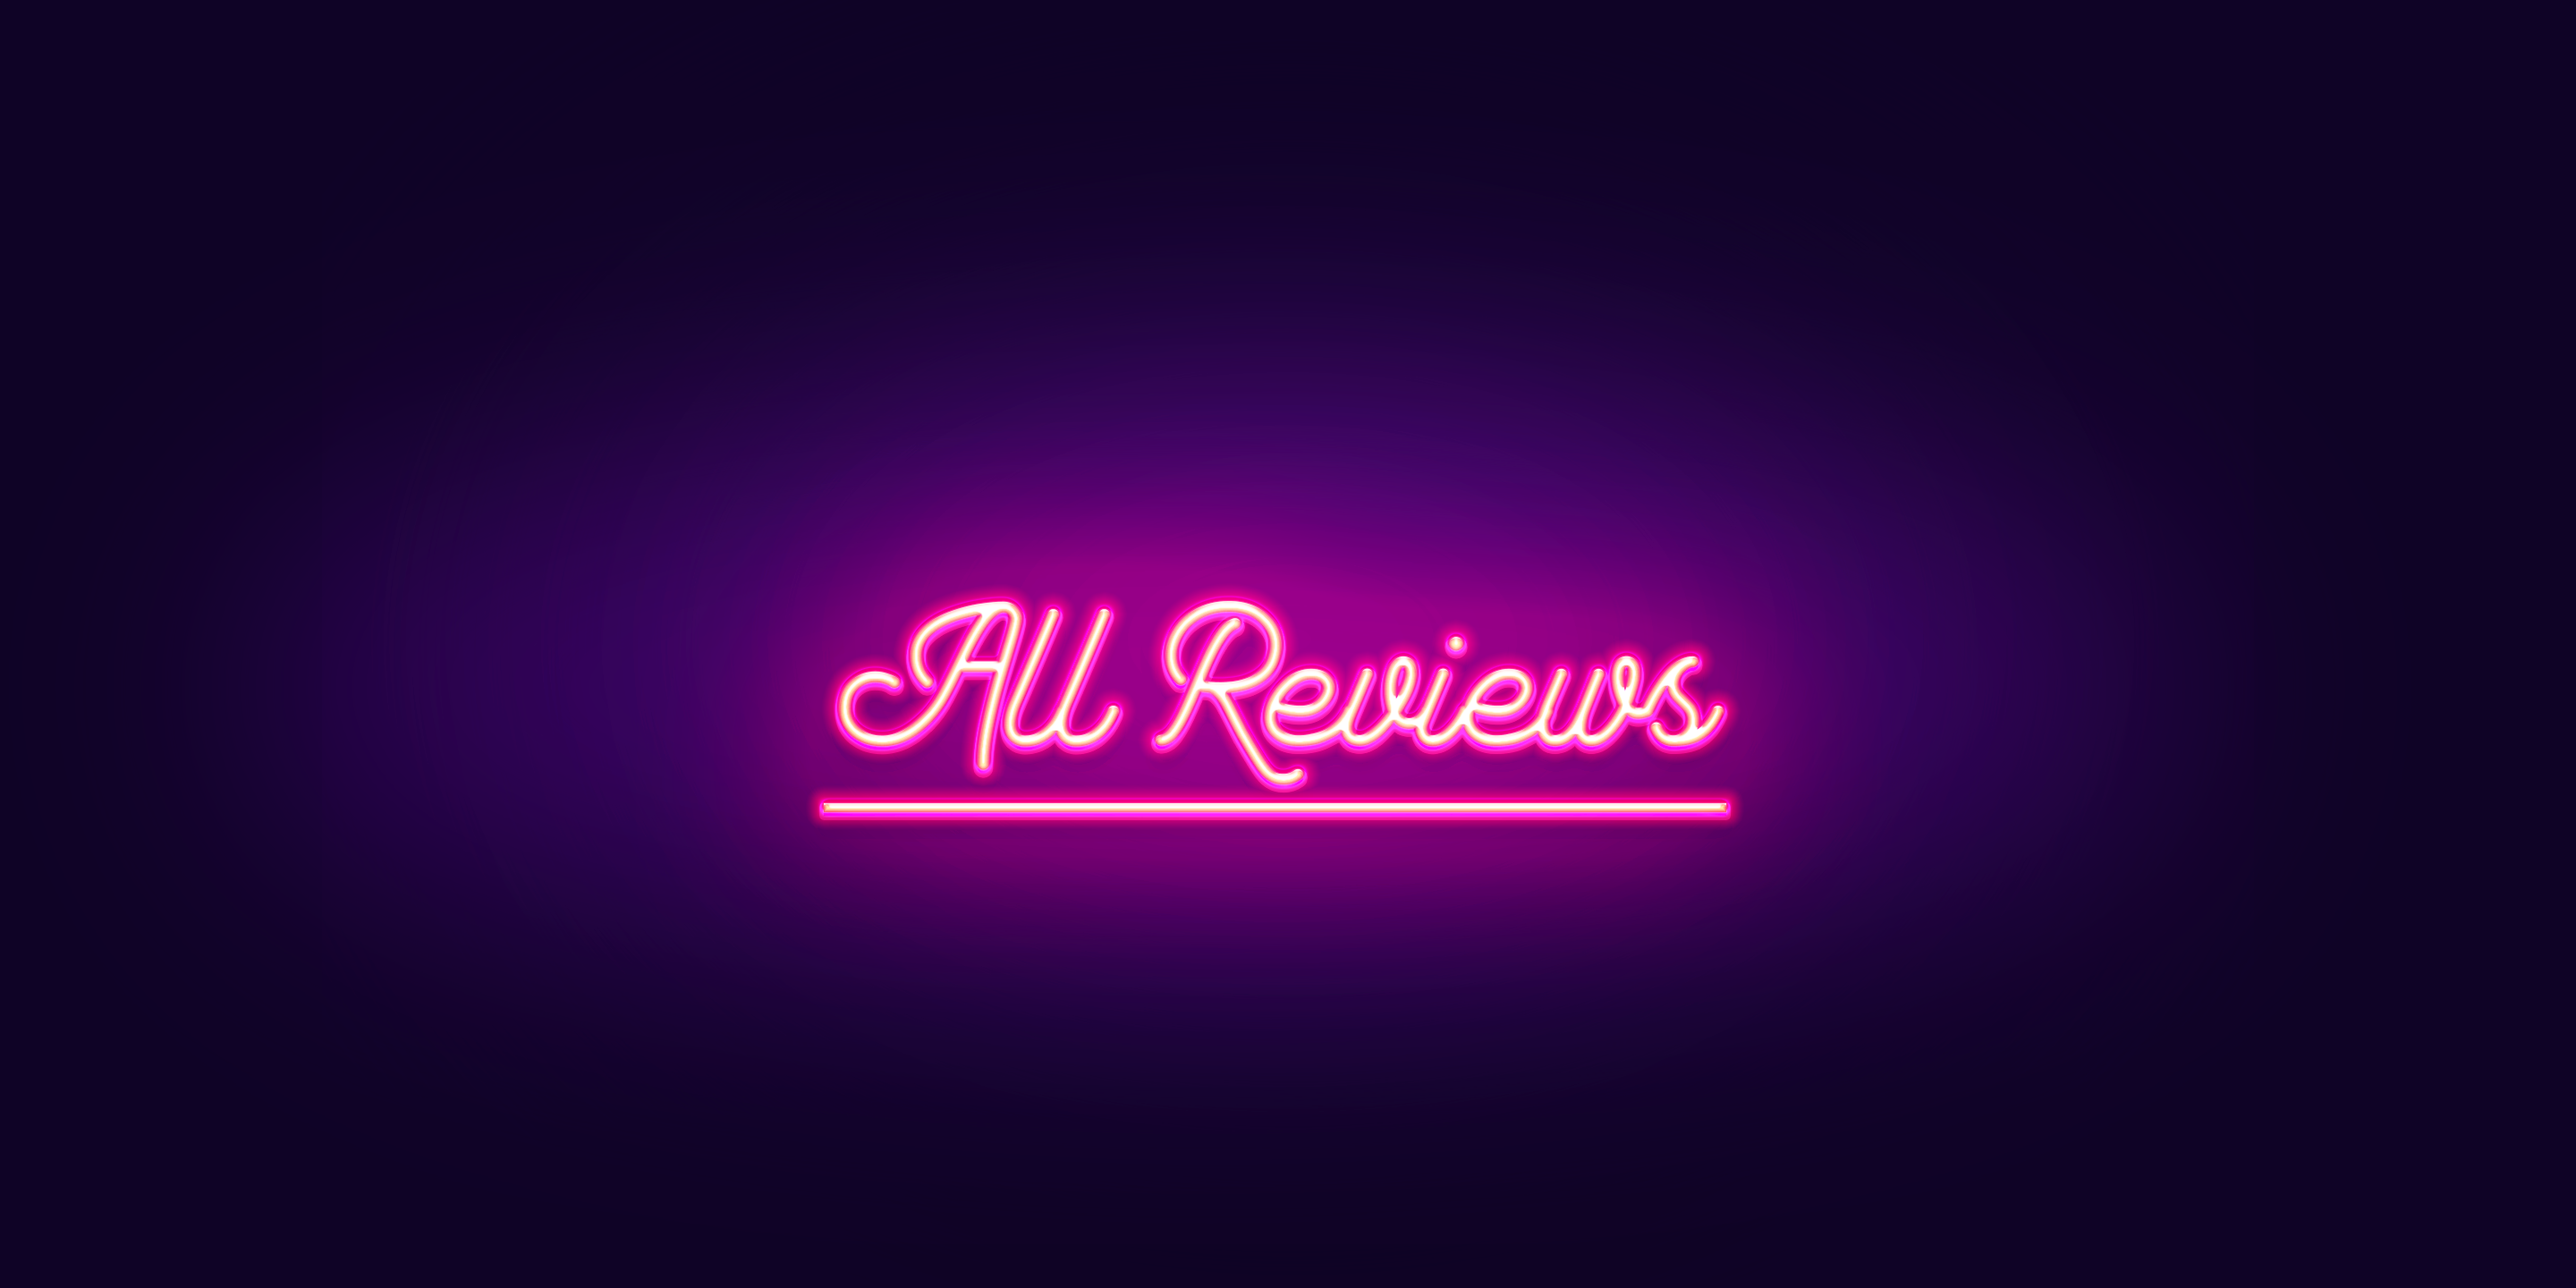
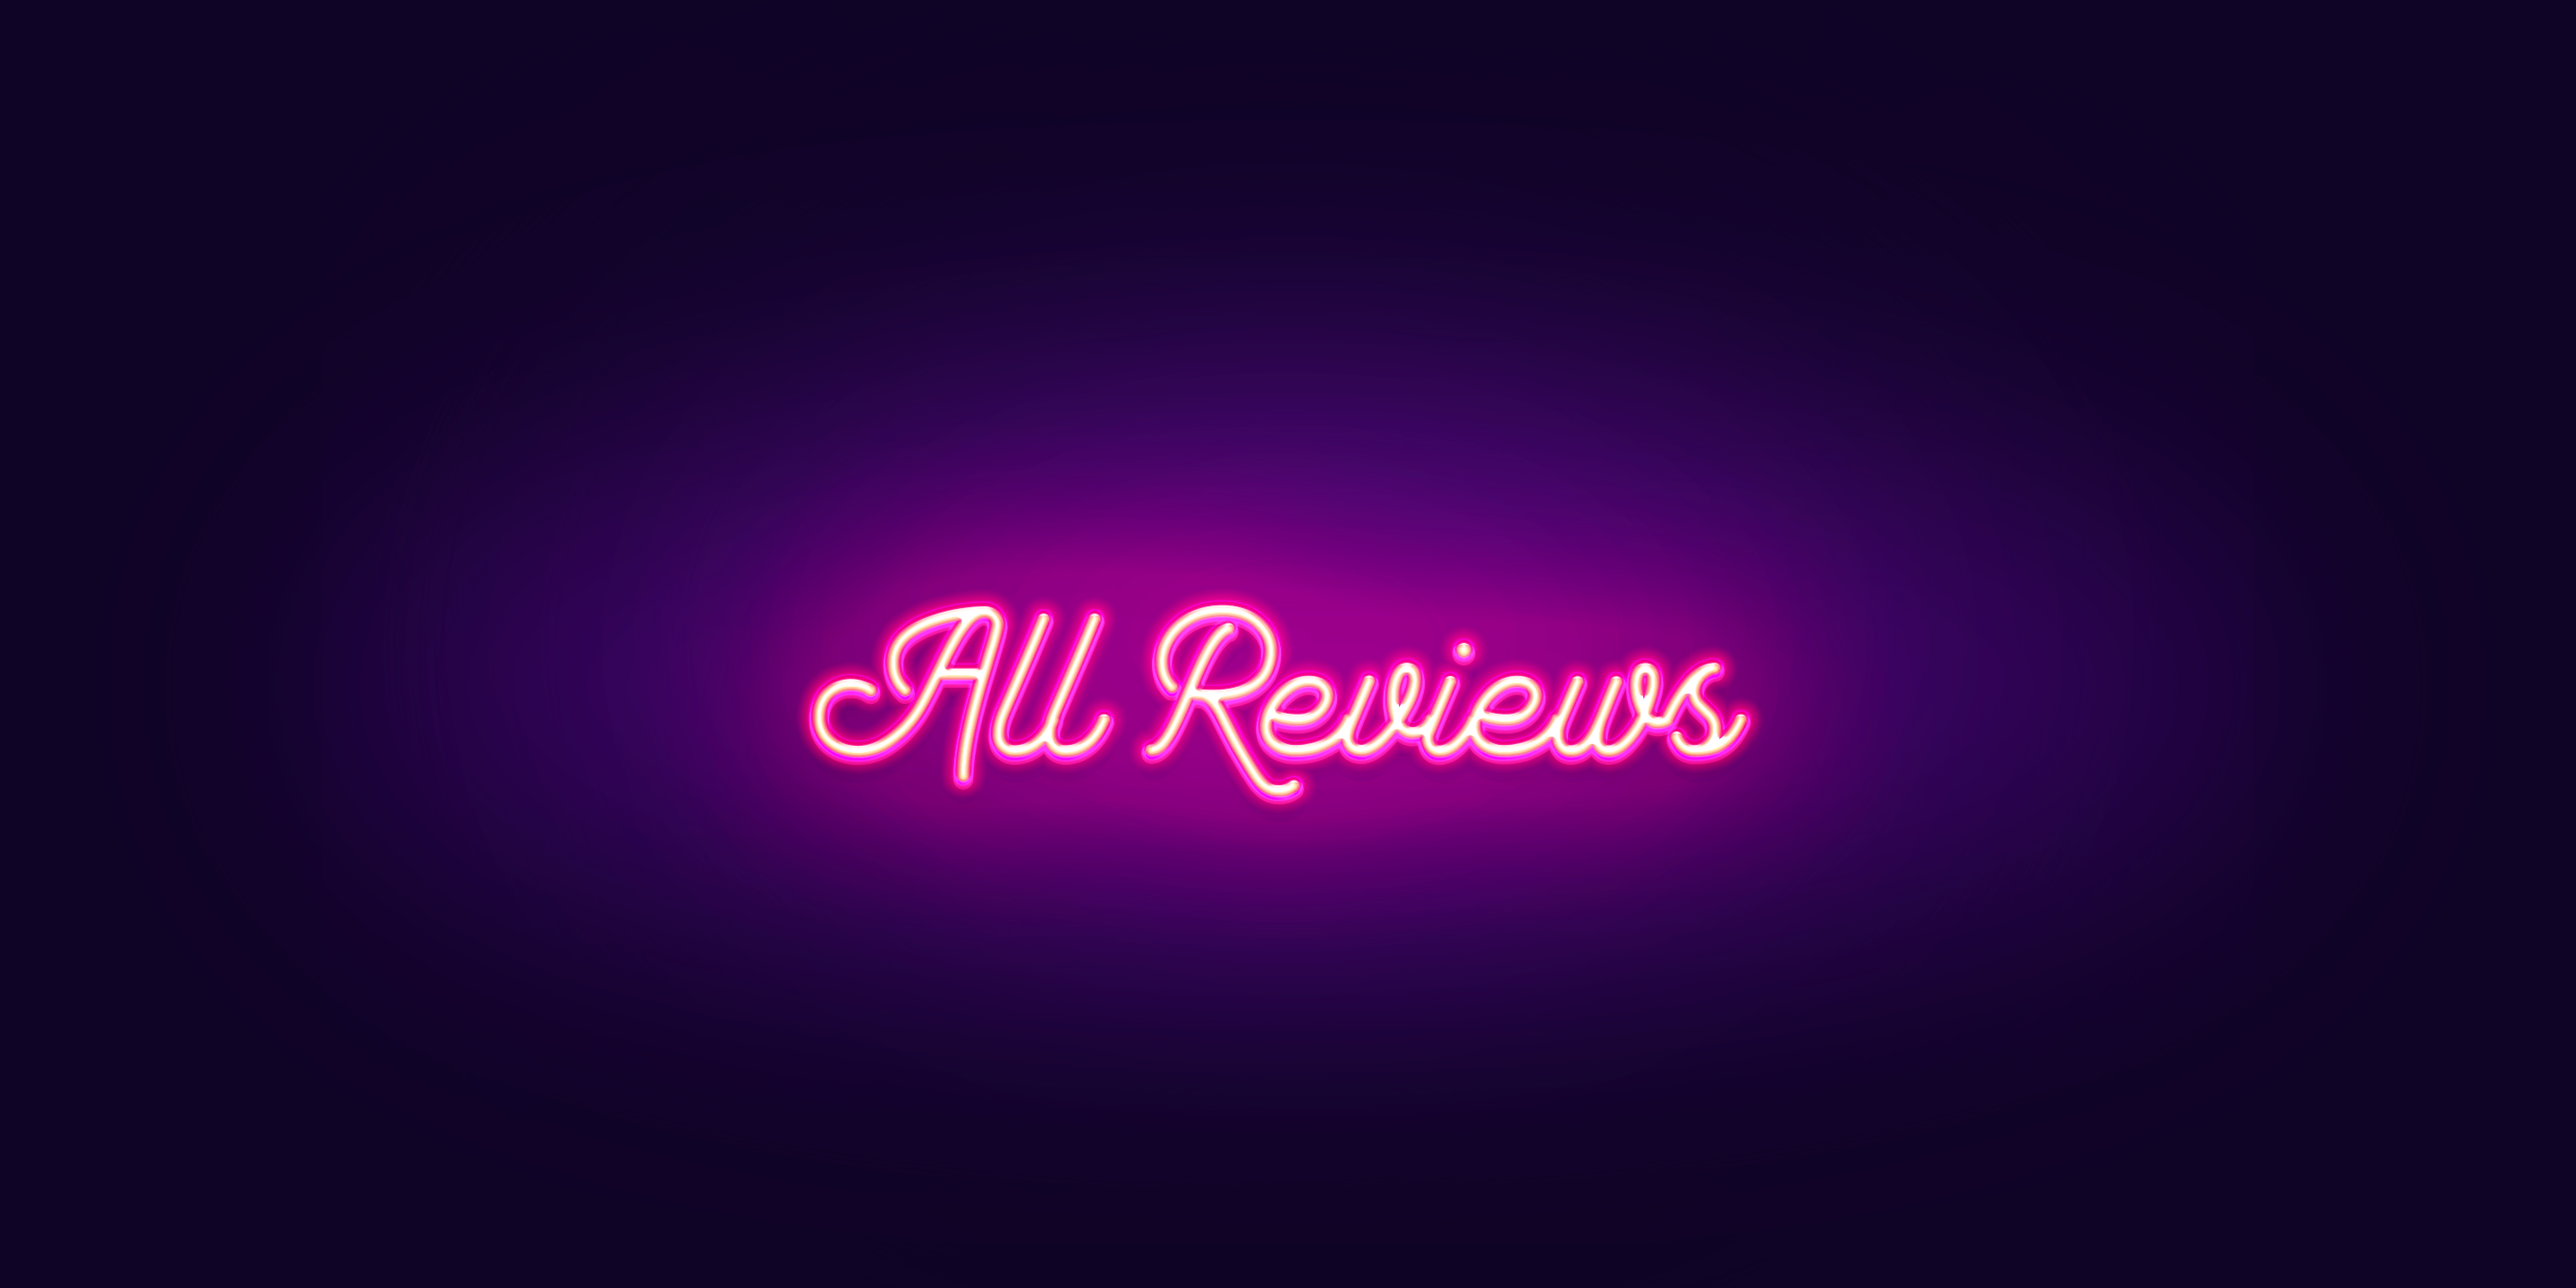
major changes to ui

Changed region(s): [[0.3125, 0.4375, 0.6875, 0.6875]]

diff --git a/client/src/pages/movieClicked.js b/client/src/pages/movieClicked.js
@@ -7,7 +7,13 @@ import { Link } from 'react-router-dom'
 import { resetWarningCache } from 'prop-types';
 import Form from 'react-bootstrap/Form'
 import submitbutton from './images/submit.png'
+import AllReviews from './images/allreviews.png'
+import LeaveReview from './images/ureviewheaders.png'
+import moviereel from './images/moviereel.png'
 
+console.log(moviereel);
+console.log(AllReviews);
+console.log(LeaveReview);
 
 class MovieClicked extends React.Component{
   constructor(props) {
@@ -34,7 +40,7 @@ class MovieClicked extends React.Component{
         'id': this.state.movieId,
         'title': this.state.title
       },
-      
+
       })
       .then((response) => {
         // console.log(response)
@@ -73,7 +79,7 @@ class MovieClicked extends React.Component{
         return(
           <div class="card border-right-0 border-top-0 border-bottom-0 border-left-0" style={{maxWidth: '18%'}}>
               <div class="card-body">
-              <h5>{t.owner.username} says</h5>
+              <h5><b>{t.owner.username}</b> says</h5>
               {t.text}
               </div>
           </div>
@@ -123,6 +129,12 @@ onSubmit = (e) => {
     })
   }catch(e) {
     console.log("Yeah there was an error fam.")
+  }
+}
+
+renderRedirect = () => {
+  if (this.state.redirect) {
+    window.location.reload()
   }
 }
 
@@ -198,6 +210,8 @@ handleReviewChange = (e) => {
   console.log(this.state.review)
 }
 
+
+
   render(){
     // Sets query in state to be whatever the user is typing
 
@@ -222,31 +236,38 @@ handleReviewChange = (e) => {
             </div>
           </div>
         </div>
+        <div class = "btn-toolbar">
+        <br></br>
+        <div><Button variant="warning" onClick={this.addToWishList}>Add to Wish List</Button></div>
+        <div><Button variant="danger" onClick={this.addToWatchedList}>Add to Watched List</Button></div>
+        </div>
       </div>
+      <img src={AllReviews} width = "400"/>
     </div>
 
     <div style={styling.reviewDiv}>
-    <h1> <b><u> Reviews: </u> </b></h1>
-      <div>{this.renderReviews()}</div>
-    </div>
-    <div>
-      <Form>
-        <Form.Group>
-        <Form.Label>Leave your review.</Form.Label>
-        <Form.Control as="textarea" rows="3" value={this.state.text} onChange={this.handleReviewChange} placeholder='You be the critic.'/>
-        </Form.Group>
-      </Form>
-      {/* <input type="input" name="review" value={this.state.review} onChange={this.handleReviewChange} /><br></br> */}
-      <Button variant="link" onClick={this.onSubmit}>
-      <img src={submitbutton} width = "200"/>
-      </Button>
-    </div>
-    <div>
-    <Button variant="warning" onClick={this.addToWishList}>Add to WishList</Button>
-    <Button variant="danger" onClick={this.addToWatchedList}>Add to WatchedList</Button>
+      <div>{(this.state.resultPosts.length == 0) ? (<p>No reviews yet.</p>) : this.renderReviews()}</div>
     </div>
 
-  </div>
+
+    <div class="form-group row" style={styling.mainDiv}>
+      <div class="col-xs-5">
+          <Form>
+            <Form.Group>
+            <img src={LeaveReview} width = "450"/>
+            <Form.Control as="textarea" rows="3" value={this.state.text} onChange={this.handleReviewChange} placeholder='You be the critic.'/>
+            </Form.Group>
+          </Form>
+          {/* <input type="input" name="review" value={this.state.review} onChange={this.handleReviewChange} /><br></br> */}
+          <Button variant="link" onClick={this.onSubmit}>
+          <img src={submitbutton} width = "200"/>
+          </Button>
+          </div>
+          {this.renderRedirect()}
+      </div>
+      <img src={moviereel} width="400"/> <img src={moviereel} width="400"/>  <img src={moviereel} width="400"/>
+    <br></br>
+    </div>
 
 
     );
@@ -267,8 +288,7 @@ const styling = {
   reviewDiv: {
     width: '100%',
     height: '100%',
-    marginLeft: '5%',
-    justifyContent: 'left',
+    justifyContent: 'center',
     background: '#0f0524',
     color: 'white'
   },

diff --git a/client/src/pages/profile.js b/client/src/pages/profile.js
@@ -5,9 +5,15 @@ import { Button } from 'react-bootstrap/'
 import { Redirect } from 'react-router-dom'
 import NavBar from '../components/navbar'
 import { Link } from 'react-router-dom'
+import wishl from './images/wishlist.png';
+import watchedl from './images/watchedlist.png';
+import urev from './images/yourreviews.png';
 
 
 console.log(logo);
+console.log(wishl);
+console.log(watchedl);
+console.log(urev);
 
 class Profile extends Component{
   constructor(props) {
@@ -122,7 +128,6 @@ class Profile extends Component{
         return(
           <div class="card border-right-0 border-top-0 border-bottom-0 border-left-0">
               <div class="card-body">
-
                 <Link to={{
                    pathname: '/movie/clicked',
                    state: {
@@ -148,30 +153,30 @@ class Profile extends Component{
   render(){
   return (
     <div style={styling.mainDiv} >
-    <NavBar location={{state: {jwt: this.state.jwt}}}/>
+      <NavBar location={{state: {jwt: this.state.jwt}}}/>
 
-    <div style={styling.headerDiv} >
-    <img src='https://i.imgur.com/5AFVMLg.png' width = "400"/>
+      <div style={styling.headerDiv} >
+      <img src='https://i.imgur.com/5AFVMLg.png' width = "400"/>
 
-    <u><h1>{`${this.state.username}`}'s profile</h1></u>
-    <br></br>
-    </div>
+      <u><h1>{`${this.state.username}`}'s profile</h1></u>
+      <br></br>
+      </div>
 
 
-      <div class="container">
-        <div class="row">
-          <div class="col-sm-3">
-          <h2>Wish List:</h2><br></br>
+      <div class="container" style={styling.mainDiv}>
+        <div class="row" style={styling.mainDiv} >
+          <div class="col-sm-3" style={styling.mainDiv}>
+          <img src={wishl} width = "300"/><br></br>
             <div>{(this.state.wishList.length == 0) ? (<p>No movies added to WishList yet.</p>) : this.renderCardsForWishList()}<br></br></div>
             <br></br>
           </div>
-          <div class="col-sm-4">
-          <h2>Watched List:</h2><br></br>
+          <div class="col-sm-3" style={styling.mainDiv}>
+          <img src={watchedl} width = "300"/><br></br>
             <div>{(this.state.watchedList.length == 0) ? (<p>No movies added to WatchedList yet.</p>) : this.renderCardsForWatchedList()}</div>
             <br></br>
           </div>
-          <div class="col-sm-5">
-            <h2>Your Reviews:</h2><br></br>
+          <div class="col-sm-4" style={styling.mainDiv}>
+            <img src={urev} width = "300"/><br></br>
             <div>{(this.state.reviews.length == 0) ? (<p>No reviews yet.</p>) : this.renderCardsForReviews()}</div>
           </div>
           </div>
@@ -185,12 +190,8 @@ class Profile extends Component{
 const styling = {
   mainDiv: {
     background: '#0f0524',
-    textAlign: 'left',
+    textAlign: 'center',
     color: 'white'
-  },
-  signup: {
-    color: 'white',
-    marginRight: '30%'
   },
   headerDiv: {
     textAlign: 'center',

diff --git a/client/src/components/navbar.js b/client/src/components/navbar.js
@@ -1,5 +1,5 @@
 import React, { Component } from 'react';
-import Nav from 'react-bootstrap/Nav'
+import { Navbar, Nav, NavItem, NavDropdown, MenuItem } from 'react-bootstrap';
 import { Link }from 'react-router-dom'
 import { Redirect } from 'react-router-dom'
 
@@ -15,27 +15,51 @@ class NavBar extends Component{
   }
   render() {
     return(
-      <Nav>
-        <Link to={{
-            pathname: '/dashboard',
-            state: {
-              jwt: this.state.jwt
-            }
-          }}>Dashboard</Link><br></br>
-        <Link to={{
-            pathname: '/users/profile',
-            state: {
-              jwt: this.state.jwt
-            }
-          }}>Profile</Link><br></br>
-        <Link to={{
-            pathname: '/'
-          }}>Logout</Link>
-        
-      </Nav>
+
+
+      <nav class="navbar navbar-expand-lg navbar-light bg-light">
+        <a class="navbar-brand" href="/">UReview</a>
+        <button class="navbar-toggler" type="button" data-toggle="collapse" data-target="#navbarNav" aria-controls="navbarNav" aria-expanded="false" aria-label="Toggle navigation">
+        <span class="navbar-toggler-icon"></span>
+        </button>
+        <div class="collapse navbar-collapse" id="navbarNav">
+        <ul class="navbar-nav">
+        <li class="nav-item active">
+          <Link to={{
+              pathname: '/dashboard',
+              state: {
+                jwt: this.state.jwt
+              }
+            }}>Dashboard </Link> <br></br>
+        </li> ///
+        <li class="nav-item">
+          <Link to={{
+              pathname: '/users/profile',
+              state: {
+                jwt: this.state.jwt
+              }
+            }}> Profile </Link>
+        </li> ///
+        <li class="nav-item">
+          <Link to={{
+              pathname: '/'
+            }}> Logout</Link>
+
+        </li>
+        </ul>
+        </div>
+      </nav>
+
     )
   }
 }
 
-export default NavBar;
 
+const styling = {
+  mainDiv: {
+    textAlign: 'center',
+    color:'black'
+  }
+}
+
+export default NavBar;

diff --git a/client/src/pages/Search.js b/client/src/pages/Search.js
@@ -5,7 +5,9 @@ import { Redirect } from 'react-router-dom'
 import NavBar from '../components/navbar'
 import { Link } from 'react-router-dom'
 import submitbutton from './images/submit.png'
+import moviereel from './images/moviereel.png'
 
+console.log(moviereel);
 console.log(submitbutton);
 
 class Search extends Component{
@@ -179,21 +181,22 @@ class Search extends Component{
       <div style={styling.mainDiv} >
       <NavBar location={{state: {jwt: this.state.jwt}}}/>
 
-        <img src='https://i.imgur.com/5AFVMLg.png' width = "400"/>
-        <br></br> <h4>SEARCH:</h4>
+        <img src='https://i.imgur.com/5AFVMLg.png' width = "400"/><br></br>
+        <h4>SEARCH:</h4>
         <div className="search">
         {this.renderRedirect()}
               <input type="input" name="query" value={this.state.query} onChange={this.handleQueryChange} /><br></br>
               <Button variant="link" onClick={this.onSubmit}>
               <img src={submitbutton} width = "200"/>
               </Button>
-        </div> <br></br>
-
+        </div>
       <div class="row no gutters">
         <div style={styling.deckDiv}>
                 {this.renderCards()}
             </div>
         </div>
+            <img src={moviereel} width="400"/> <img src={moviereel} width="400"/>  <img src={moviereel} width="400"/>  
+          <br></br>
       </div>
       );
     }

diff --git a/client/src/pages/landing.js b/client/src/pages/landing.js
@@ -43,8 +43,8 @@ class Landing extends Component {
       <div> <img src={logo} width = "700"/> </div>
       <div style = {styling.headerDiv}> <img src={banner} width = "1000"/> </div>
       <div style={styling.buttonDiv}>
-        <Link to="/users/signup"><input type="image" src={signuplogo} width = "600"/></Link>
-        <Link to="/users/login"><input type="image" src={loginlogo} width = "600"/></Link>
+        <Link to="/users/signup"><input type="image" src={signuplogo} width = "400"/></Link>
+        <Link to="/users/login"><input type="image" src={loginlogo} width = "400"/></Link>
       </div>
     </div>
     )
@@ -58,7 +58,8 @@ const styling = {
     textAlign: 'center'
   },
   signup: {
-    marginRight: '30%'
+    marginRight: '30%',
+    background: '#0f0524'
   },
   headerDiv: {
     background: '#f8f9fa'

diff --git a/client/src/pages/SearchResults.js b/client/src/pages/SearchResults.js
@@ -4,6 +4,9 @@ import { Button } from 'react-bootstrap/'
 import { Redirect } from 'react-router-dom'
 import NavBar from '../components/navbar'
 import { Link } from 'react-router-dom'
+import moviereel from './images/moviereel.png'
+
+console.log(moviereel);
 
 class SearchResults extends React.Component{
   constructor(props) {
@@ -65,6 +68,7 @@ class SearchResults extends React.Component{
             {this.renderCards()}
           </div>
         </div>
+        <img src={moviereel} width="400"/> <img src={moviereel} width="400"/>  <img src={moviereel} width="400"/>  
       </div>
       );
     }

diff --git a/client/public/index.html b/client/public/index.html
@@ -24,7 +24,7 @@
       work correctly both with client-side routing and a non-root public URL.
       Learn how to configure a non-root public URL by running `npm run build`.
     -->
-    <title>React App</title>
+    <title>UReview by Rybama</title>
   </head>
   <body>
     <noscript>You need to enable JavaScript to run this app.</noscript>

diff --git a/client/src/pages/users.login.js b/client/src/pages/users.login.js
@@ -155,7 +155,6 @@ class Login extends Component {
               <Button variant="link" onClick={(e) => this.onSubmit()} >
               <img src={submitbutton} width = "200"/>
               </Button>
-              <p>{this.state.result}</p>
             </div>
           </Form>
         </div>

diff --git a/client/src/pages/Search.css b/client/src/pages/Search.css
@@ -36,6 +36,10 @@
   overflow-wrap: normal;
 }
 
+.btn-toolbar {
+  marginleft: 15px;
+}
+
 .card-body {
   background-color: #0f0524;
   border-width: 0px;
